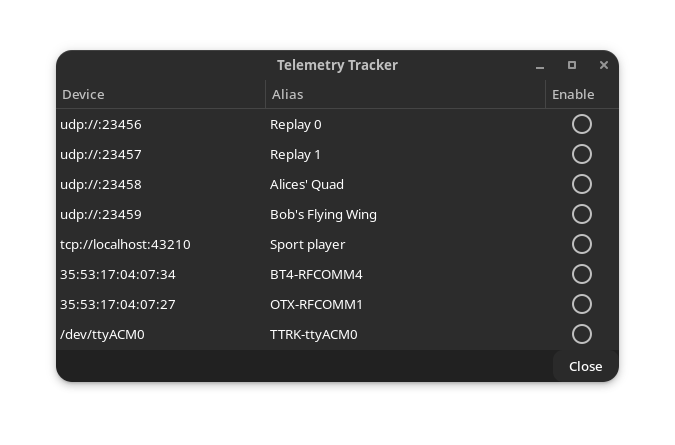
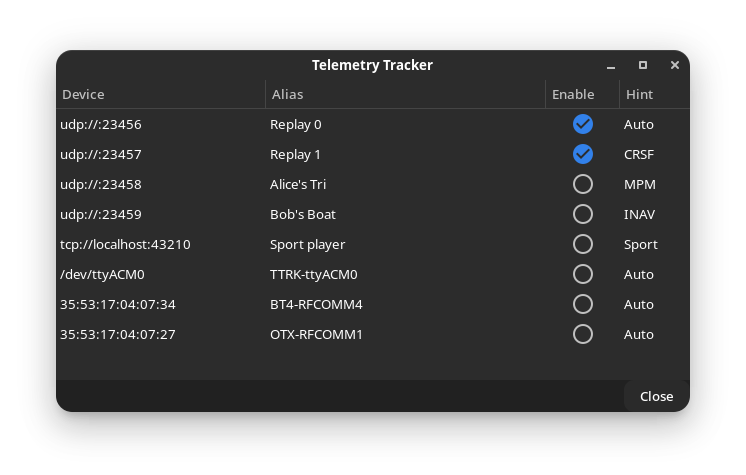
add Hints

diff --git a/docs/manual/docs/mwp-telemetry-tracker.md b/docs/manual/docs/mwp-telemetry-tracker.md
@@ -50,6 +50,7 @@ The "Telemery Tracking" device(s) may be assigned from the "View" / "Telemetry T
 * The USB device node is auto-detected and automatically aliased `TTRK-ttyACM0`. The user can edit / override this alias if she so wishes.
 * The two bluetooth devices (`35:53:*`) have aliases defined at the operating system level.
 * If `/dev/ttyACM0` is subsequently connected as the primary device, it will not appear in the list.
+* The `Hints` column lets the user define the specific protocol to used (vice let it be auto-detected).
 
 Tracking devices are enabled / disabled using the "Enable" check-button. Once a device is enabled, {{mwp}} will attempt to read data from it. The device is closed by toggling the "Enable" button. Once disabled, its resources are freed. If a USB device is physically removed when enabled, its resources will also be freed.
 
